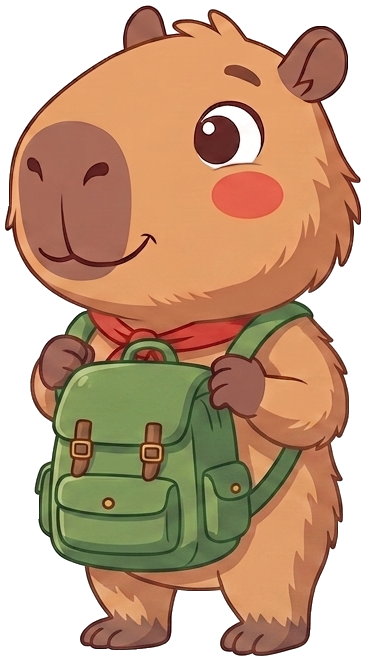
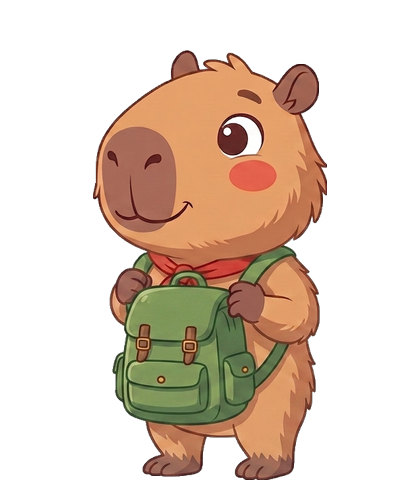
fix: padroniza a escala, proporcao e altura do corpo da capivara em todas as imagens (estatica, acenar e caminhar)

diff --git a/index.html b/index.html
@@ -892,8 +892,8 @@ footer {
 
 /* Transparent Mascot Avatar */
 .capy-avatar-btn {
-  width: 96px;
-  height: 120px;
+  width: 104px;
+  height: 130px;
   border: none;
   background: transparent;
   cursor: pointer;
@@ -906,7 +906,7 @@ footer {
   justify-content: center;
 }
 .capy-avatar-btn:hover {
-  transform: scale(1.08) translateY(-4px);
+  transform: scale(1.06) translateY(-4px);
 }
 .capy-avatar-img {
   width: 100%;
@@ -921,7 +921,7 @@ footer {
 /* Interactive Speech Bubble anchored to Capybara Head */
 .capy-speech-bubble {
   position: absolute;
-  bottom: 122px;
+  bottom: 132px;
   right: 0;
   left: auto;
   width: min(360px, calc(100vw - 48px));
@@ -1756,7 +1756,7 @@ body[data-density="spacious"] { --density: 1.25; }
   </div>
 
   <!-- Transparent Mascot Button (Sem Fundo & Sem Aura) -->
-  <button class="capy-avatar-btn" id="capyAvatarBtn" title="Conversar com o assistente">
+  <button class="capy-avatar-btn" id="capyAvatarBtn" aria-label="Assistente Virtual">
     <img src="uploads/capivara_idle.png" alt="Capivara Assistente" class="capy-avatar-img" />
   </button>
 </div>
